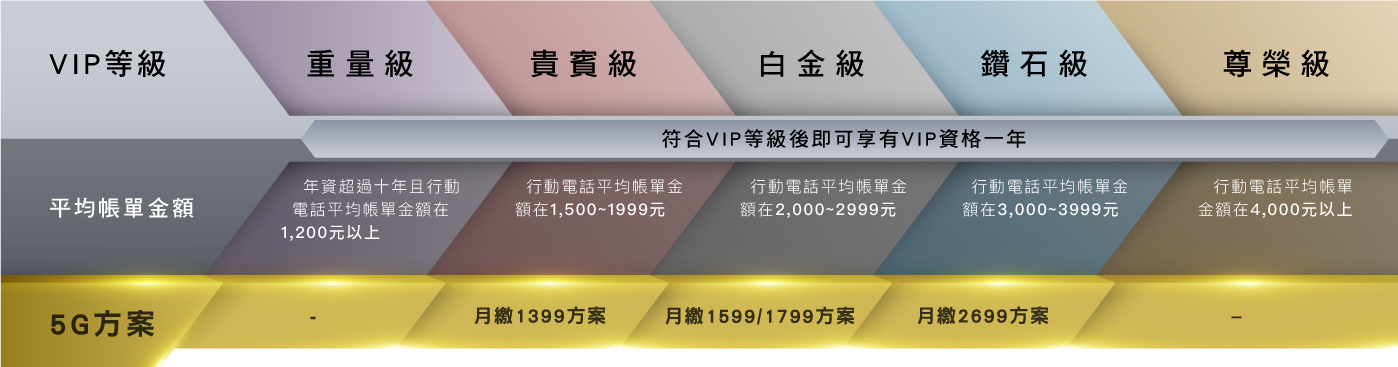
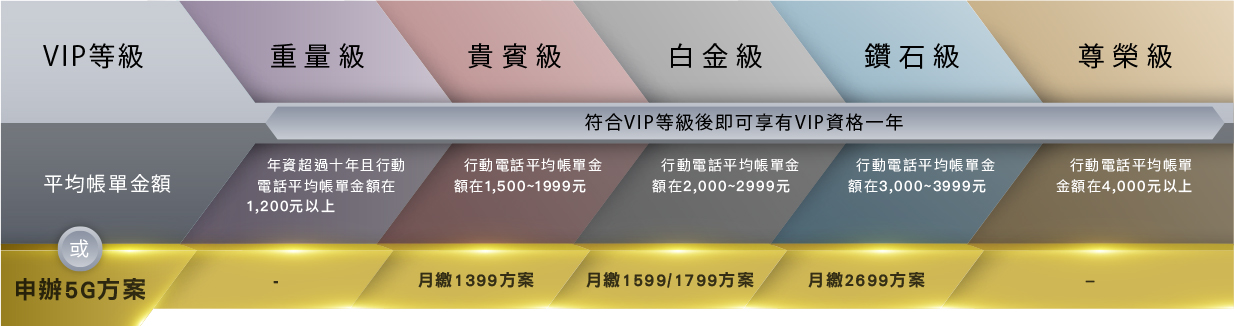
VIP
- 更換圖檔
- 新增保護文字
- 修改保護文字
- 修改連結

diff --git a/demo/VIP/index.html b/demo/VIP/index.html
@@ -832,6 +832,18 @@
                             </div>
                         </div>
 
+                        <div class="question_item">
+                            <div class="question_title">
+                                <div class="question_img"><img src="./img/QA-Q.png" alt="question_img"></div>
+                                <p>若目前已經是VIP了，申辦5G方案也享有等級提升嗎?</p>
+                            </div>
+                            <div class="question_text">
+                                <div class="question_img"><img src="./img/QA-A.png" alt="question_img"></div>
+                                <p>是，若您申辦的5G方案對應至VIP等級高於您目前的VIP等級，即可立刻享有等級提升，並重新享VIP一年資格。惟無法立即適用行動VIP續約優惠，需於下次符合續約資格進行續約時適用。
+
+                                </p>
+                            </div>
+                        </div>
                     </div>
 
                 </div>
@@ -866,7 +878,7 @@
                         </li>
                         <li class="_1th">
                             <p class="_1th_content">
-                                參加月繳1399以上之客戶，即依據客戶所選方案享立即享有對應之VIP等級及優惠，VIP資格一年有效，不因客戶於合約期間調升月繳金額而調升等級，若於租約期間調降月繳方案，則取消VIP資格或調降VIP等級。
+                                參加月繳1399以上之客戶，即依據客戶所選方案立即享有對應之VIP等級及優惠，VIP資格一年有效，不因客戶於合約期間調升月繳金額而調升等級，若於租約期間調降月繳方案，則取消VIP資格或調降VIP等級。
                             </p>
                         </li>
                         <li class="_1th">

diff --git a/demo/VIP/join.html b/demo/VIP/join.html
@@ -283,7 +283,7 @@
                             <ul>
                                 <li><div class="birthday_img"><img src="./img/hamiPoint_600.png" alt="birthday_item"></div></li>
                                 <li><a href="https://ticket.emome.net/CHTETicketWeb/2020monthlimit/GetMonthLimit.jsp"><img src="./img/take.png" /></a><p><a href="https://hamipoint.cht.com.tw/upload/cheers_event/hamipoint_activity5.php">點數歸戶怎麽做？</a><div class="btn_group">
-                        <a class="moreBtn" href="https://cadmus-design.github.io/demo/VIP_sub/special_search.html"
+                        <a class="moreBtn" href="https://ticket.emome.net/CHTETicketWeb/2020monthlimit/SearchMonthLimit.jsp"
                             onclick="_track('Hbd _action');" target="_blank">領取查詢</a>
                     </div></p>
                                 </li>
